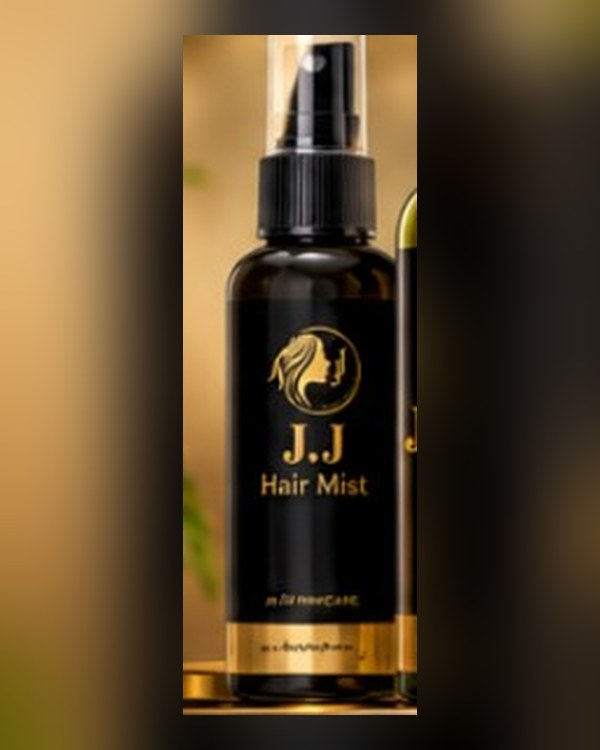
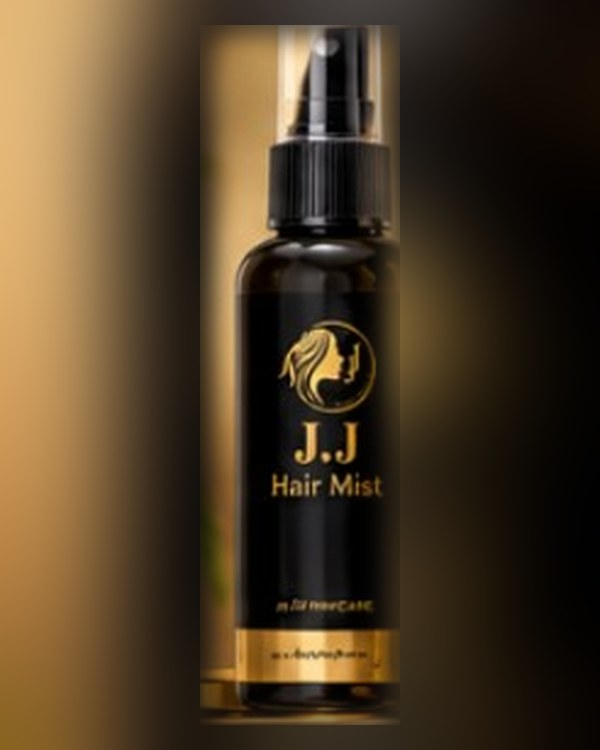
feat: real Hair Mist and Herbal Hair Oil images and benefits
Claude-Session: https://claude.ai/code/session_01VHnCC67Mk1dCRZXh2XSpnN

diff --git a/src/app/products/[slug]/page.tsx b/src/app/products/[slug]/page.tsx
@@ -27,10 +27,11 @@ const products: ProductDetail[] = [
     slug: "herbal-hair-oil",
     price: "KES 1,000",
     tagline: "Nourish. Strengthen. Grow.",
-    description: "A 100% natural herbal hair oil made to nourish the scalp, strengthen hair and support healthy growth, while adding natural shine.",
+    description: "A 100% natural herbal hair oil made to nourish and strengthen hair, support healthy growth and reduce breakage. Healthy hair, naturally.",
     size: "200ml",
-    image: "/images/herbal-hair-oil.jpg",
-    benefits: ["Nourishes the scalp", "Strengthens hair", "Promotes hair growth", "Adds natural shine"],
+    image: "/images/herbal-hair-oil-bottle.jpg",
+    imageAspect: "aspect-square",
+    benefits: ["Nourishes hair", "Strengthens hair", "Promotes hair growth", "Reduces hair breakage"],
     ingredients: "100% natural ingredients. The full ingredient list is printed on the bottle.",
     howToUse: "Pour a small amount into your palm and work it through your scalp and hair.",
     hairTypes: ASK_US,
@@ -78,13 +79,14 @@ const products: ProductDetail[] = [
     name: "JJHairCare Hair Mist",
     slug: "hair-mist",
     price: "KES 1,500",
-    tagline: "Natural care for your hair.",
-    description: "A natural hair mist from the JJ Haircare range.",
+    tagline: "Refresh. Nourish. Shine.",
+    description: "A natural hair mist for hair care all day — for healthier, softer and shinier hair.",
     size: "Hair mist",
     image: "/images/hair-mist.jpg",
-    benefits: ["Part of the JJ Haircare natural range"],
+    imageAspect: "aspect-[1199/1312]",
+    benefits: ["Nourishes hair", "Adds natural shine", "Reduces frizz", "Strengthens hair"],
     ingredients: "The full ingredient list is printed on the bottle.",
-    howToUse: "Hold the bottle a little away from your hair and mist evenly.",
+    howToUse: "Hold the bottle a little away from your hair and mist evenly. Use it through the day to refresh and add shine.",
     hairTypes: ASK_US,
   },
 ];

diff --git a/src/data/products.ts b/src/data/products.ts
@@ -13,7 +13,7 @@ export const PRODUCTS: Product[] = [
     slug: "herbal-hair-oil",
     price: "KES 1,000",
     description: "Nourish. Strengthen. Grow. A 100% natural herbal oil for scalp and strands.",
-    image: "/images/herbal-hair-oil.jpg",
+    image: "/images/herbal-hair-oil-bottle.jpg",
   },
   {
     name: "Scalp Detox Mask",
@@ -39,7 +39,7 @@ export const PRODUCTS: Product[] = [
     name: "Hair Mist",
     slug: "hair-mist",
     price: "KES 1,500",
-    description: "A natural hair mist from the JJ Haircare range.",
+    description: "Refresh. Nourish. Shine. A natural hair mist for hair care all day.",
     image: "/images/hair-mist.jpg",
   },
 ];
